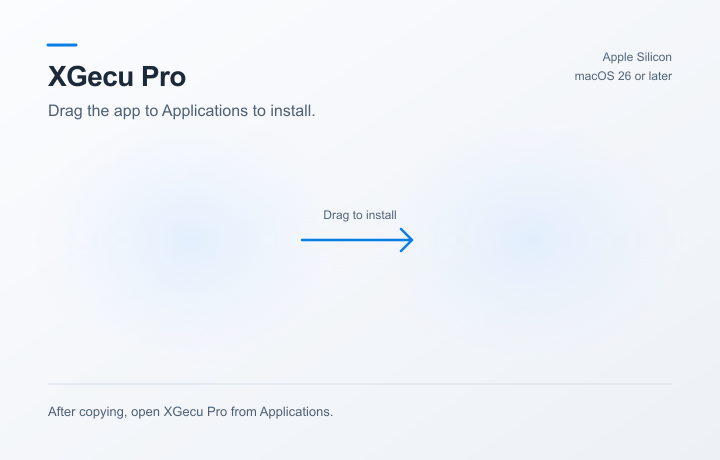
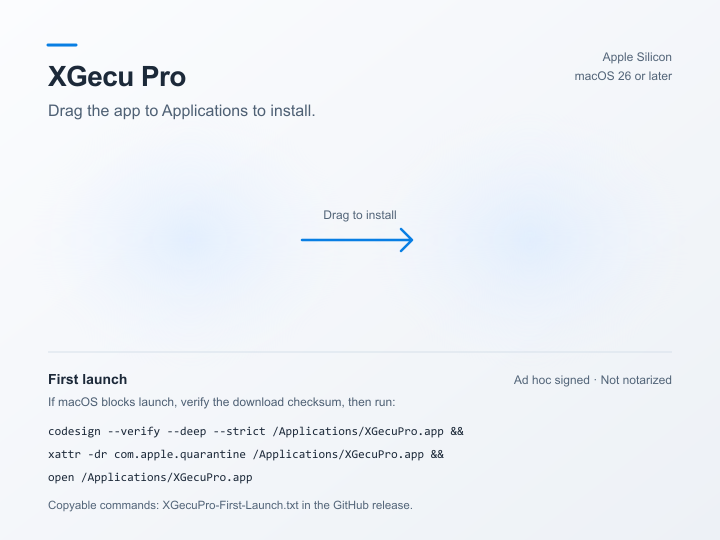
Show verified first-launch commands in installer and release

diff --git a/mac-app/design/dmg/preview.html b/mac-app/design/dmg/preview.html
@@ -12,13 +12,15 @@
   .lights { display: flex; gap: 8px; position: absolute; left: 16px; }
   .lights span { width: 12px; height: 12px; border: 1px solid #0002; border-radius: 50%; }
   .lights span:nth-child(1) { background: #ff6059; } .lights span:nth-child(2) { background: #febd2e; } .lights span:nth-child(3) { background: #28c840; }
-  .canvas { position: relative; width: 100%; aspect-ratio: 720/460; background: url('background.png') center / 100% 100%; container-type: inline-size; }
-  figure { position: absolute; margin: 0; width: 25%; text-align: center; transform: translate(-50%, -64px); top: 52.173913%; color: #202b39; }
+  .canvas { position: relative; width: 100%; aspect-ratio: 720/540; background: url('background.png') center / 100% 100%; container-type: inline-size; }
+  figure { position: absolute; margin: 0; width: 25%; text-align: center; transform: translate(-50%, -64px); top: 44.444444%; color: #202b39; }
   figure:first-child { left: 26.388889%; } figure:nth-child(2) { left: 73.611111%; }
   figure img { display: block; margin: 0 auto; width: 128px; height: 128px; max-width: 100%; }
   figcaption { margin-top: 4px; font-size: 13px; }
   .note { max-width: 680px; margin: 20px 0 0; font-size: 13px; color: #46576c; }
   .note strong { color: #243247; }
+  a { color: #0065b8; text-underline-offset: 3px; }
+  a:focus-visible { outline: 2px solid #087ee3; outline-offset: 4px; border-radius: 2px; }
   @media(max-width:760px) {
     main { margin: 24px auto; padding: 0 12px; width: 100%; }
     figure { transform: translate(-50%, -8.888889cqw); }
@@ -29,11 +31,11 @@
 <main>
   <section class="window" aria-label="Installation layout preview">
     <div class="titlebar"><div class="lights" aria-hidden="true"><span></span><span></span><span></span></div>XGecu Pro</div>
-    <div class="canvas" role="img" aria-label="XGecu Pro installation: drag the app on the left to Applications on the right. After copying, open XGecu Pro from Applications.">
+    <div class="canvas" role="img" aria-label="XGecu Pro installation: drag the app on the left to Applications on the right. First launch: this build is ad hoc signed, not notarized. If macOS blocks launch, verify the download checksum. Then verify the app with codesign --verify --deep --strict /Applications/XGecuPro.app. Only if it succeeds, run xattr -dr com.apple.quarantine /Applications/XGecuPro.app, then open the app. Copyable commands are in XGecuPro-First-Launch.txt in the GitHub release.">
       <figure aria-hidden="true"><img src="../app-icon/XGecuPro-icon-1024.png" alt=""><figcaption>XGecuPro</figcaption></figure>
       <figure aria-hidden="true"><img src="applications-preview.svg" alt=""><figcaption>Applications</figcaption></figure>
     </div>
   </section>
-  <p class="note"><strong>Layout preview.</strong> In the DMG, both icons are real Finder items. The Applications folder and window chrome follow your Mac’s appearance. This preview does not install the app.</p>
+  <p class="note"><strong>Layout preview.</strong> In the DMG, both icons are real Finder items. The Applications folder and window chrome follow your Mac’s appearance. This preview does not install the app. <a href="XGecuPro-First-Launch.txt">Copy first-launch commands</a>.</p>
 </main>
 </html>

diff --git a/mac-app/design/dmg/README.md b/mac-app/design/dmg/README.md
@@ -2,12 +2,16 @@
 
 ## Design contract
 
-This is a fixed 720 x 460 point Finder content area. Its job is to explain
+This is a fixed 720 x 540 point Finder layout. Its job is to explain
 one action: copy `XGecuPro.app` to Applications. The app icon on the left and
 the real `/Applications` symlink on the right remain native Finder items,
 including their labels and keyboard selection. The arrow, heading and short
-instructions are artwork, not controls. The footer explains where to launch
-the installed copy.
+instructions are artwork, not controls. The lower area shows the app signature
+check, app-only quarantine removal and launch commands for a blocked first
+launch. The commands are chained with `&&`, so a failed signature check stops
+the following commands. The screen requires verifying the download checksum
+first. `XGecuPro-First-Launch.txt` is a separate release download for copying
+the commands and includes Apple's normal Open Anyway route.
 
 The existing blue X / graphite chip icon is the product reference. A light
 neutral background gives the two icons space and keeps the instructions
@@ -16,7 +20,7 @@ wizard is part of this window. All app-facing text remains English.
 
 `layout.json` defines icon coordinates, window dimensions and text sizes for
 packaging. `background.svg` is the editable artwork; the checked-in PNGs are
-720 x 460 at 72 dpi and 1440 x 920 at 144 dpi. The images intentionally contain
+720 x 540 at 72 dpi and 1440 x 1080 at 144 dpi. The images intentionally contain
 neither app nor folder icons: both must remain draggable in Finder.
 
 `preview.html` is a static design preview, not an installer. Its folder drawing
@@ -55,7 +59,7 @@ a finally block. The script refuses existing outputs and personal offline
 apps with a bundled proprietary database.
 
 CI runs this packaging check after the existing app build, and uploads the
-DMG, ZIP and both checksum files. Tagged releases publish both formats. The
+DMG, ZIP, both checksum files and first-launch instructions. Tagged releases publish these assets. The
 DMG does not change the app's signing or notarization status.
 
 To regenerate the artwork, make `sharp` available to Node and run:

diff --git a/mac-app/README.md b/mac-app/README.md
@@ -20,6 +20,9 @@ Download the latest GitHub Release app DMG and matching
 and start at step 3 below. A successful CI artifact is also available for
 testing changes before a release. If a release only offers the ZIP, use the
 ZIP alternative below.
+The release also includes `XGecuPro-First-Launch.txt` with copyable signature
+and quarantine commands shown in the installation window. Use them only after
+the download checksum succeeds and the installed app's signature verifies.
 
 1. Sign in to GitHub and open the latest successful `macOS arm64` run for `main`
    on the [Actions page](https://github.com/WINVIST/xgecu-pro/actions/workflows/macos.yml).

diff --git a/mac-app/RELEASE-NOTES-1.1.1.md b/mac-app/RELEASE-NOTES-1.1.1.md
@@ -5,6 +5,8 @@ XGecu Pro 1.1.1 adds a native drag-to-Applications installation experience.
 - The DMG opens a clear two-item layout: drag XGecuPro onto Applications,
   then launch the installed copy. The background includes Retina artwork.
 - Releases include both DMG and ZIP downloads with individual SHA-256 files.
+- The installation screen shows first-launch signature/quarantine commands
+  for this ad hoc build; a separate text download makes them easy to copy.
 - macOS CI verifies the disk image, saved Finder layout, Applications link,
   app signatures and a copied-out app with its bundled CLI before publishing.
 
